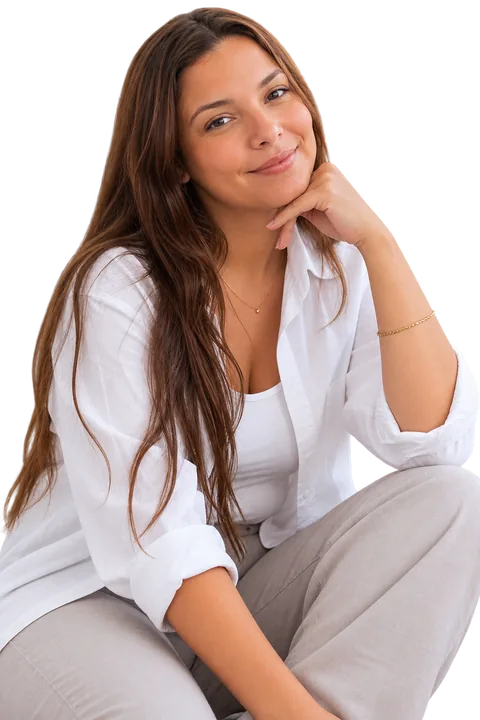
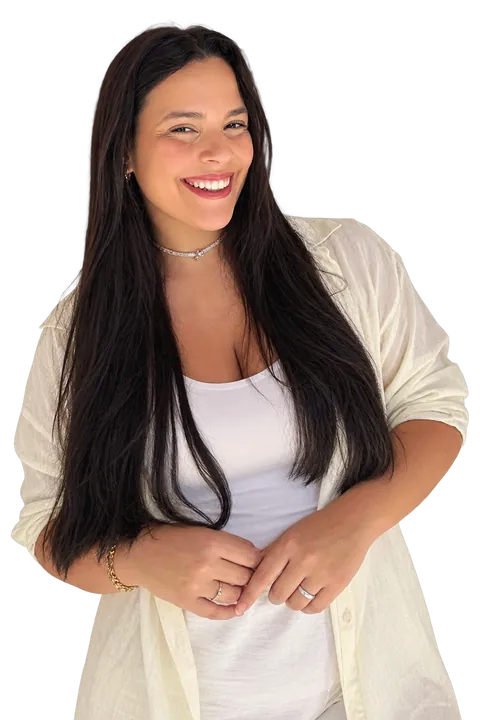
Troca o retrato do site e atualiza o Story da Cavan e o ticket da Apaixone & Decore
• img/foto-flaviana.png: retrato novo (1086x1448, PNG com o fundo recortado), que passa a ser a fonte de todos os derivados no lugar do img/flaviana.png.
• img/flaviana-1024.webp, img/flaviana-720.webp e img/flaviana-480.webp: regerados a partir do retrato novo. O recorte foi reencaixado em 2:3, proporção que o .hero__portrait espera, para o object-fit: cover não cortar braço nem cabelo; compressão em WebP qualidade 80, o que mantém os arquivos na mesma ordem de grandeza dos antigos (152 KB, 108 KB e 57 KB).
• img/og.jpg e img/og-square.jpg: cards de compartilhamento recompostos com a foto nova, repetindo o layout dos anteriores - painel mauve #6c5f7d, fundo osso, mesma tipografia serifada e o texto caindo nas mesmas linhas. São eles que aparecem quando o link é colado no WhatsApp.
• img/favicon_io/: os seis ícones (.ico, 16, 32, apple-touch e os dois android-chrome) regerados com o retrato novo. O site.webmanifest segue o do projeto, com name, escopo, cores e caminhos relativos preenchidos.
• img/old-imagens/: guarda o retrato antigo e os seis derivados dele, fora do caminho mas à mão para comparação.
• .vercelignore: passou a ignorar img/old-imagens/, para os 2,7 MB de imagem aposentada não subirem no deploy nem ficarem acessíveis por URL.
[…]

diff --git a/index.html b/index.html
@@ -1111,23 +1111,23 @@
                     </a>
                   </article>
                   <article class="fan__card">
-                    <a class="card__ig-top" href="https://instagram.com/lojashotparadisees" target="_blank"
+                    <a class="card__ig-top" href="https://instagram.com/cavanestofados" target="_blank"
                       rel="noopener">
                       <svg class="ico" aria-hidden="true">
                         <use href="#i-instagram" />
                       </svg>Ver vídeo no Instagram
                     </a>
-                    <a class="reel__link" href="https://youtube.com/shorts/H4iT8D2rSuw" target="_blank" rel="noopener"
-                      data-yt="H4iT8D2rSuw">
+                    <a class="reel__link" href="https://youtube.com/shorts/CK-vbc5s9uA" target="_blank" rel="noopener"
+                      data-yt="CK-vbc5s9uA">
                       <figure class="frame frame--9x16">
-                        <img src="https://i.ytimg.com/vi/H4iT8D2rSuw/hqdefault.jpg"
-                          alt="Story em destaque da Loja Hot Paradise, gravado por Flaviana Marafoni" loading="lazy"
+                        <img src="https://i.ytimg.com/vi/CK-vbc5s9uA/hqdefault.jpg"
+                          alt="Story em destaque da Cavan Estofados, gravado por Flaviana Marafoni" loading="lazy"
                           decoding="async">
                         <span class="reel__play" aria-hidden="true"><svg class="ico">
                             <use href="#i-play" />
                           </svg></span>
                       </figure>
-                      <p class="reel__brand">@lojashotparadisees</p>
+                      <p class="reel__brand">@cavanestofados</p>
                     </a>
                     <a class="card__ig-bottom" href="https://instagram.com/flavianamarafoni" target="_blank"
                       rel="noopener">
@@ -1838,7 +1838,7 @@
             <summary class="case__head">
               <span class="case__idx">03</span>
               <span class="case__brand">Apaixone &amp; Decore<span>Casa e decoração</span></span>
-              <span class="case__metric">R$ 2,5–7 <em>mil</em></span>
+              <span class="case__metric">R$ 2,6–7 <em>mil</em></span>
               <span class="case__more">
                 <span class="case__more-txt">Memória de cálculo</span>
                 <svg class="ico" aria-hidden="true">
@@ -1850,7 +1850,7 @@
               <dl class="case__facts">
                 <div>
                   <dt>Ticket médio</dt>
-                  <dd>R$ 2.567,80 – R$ 7.000</dd>
+                  <dd>R$ 2.628</dd>
                 </div>
                 <div>
                   <dt>Pedidos</dt>
